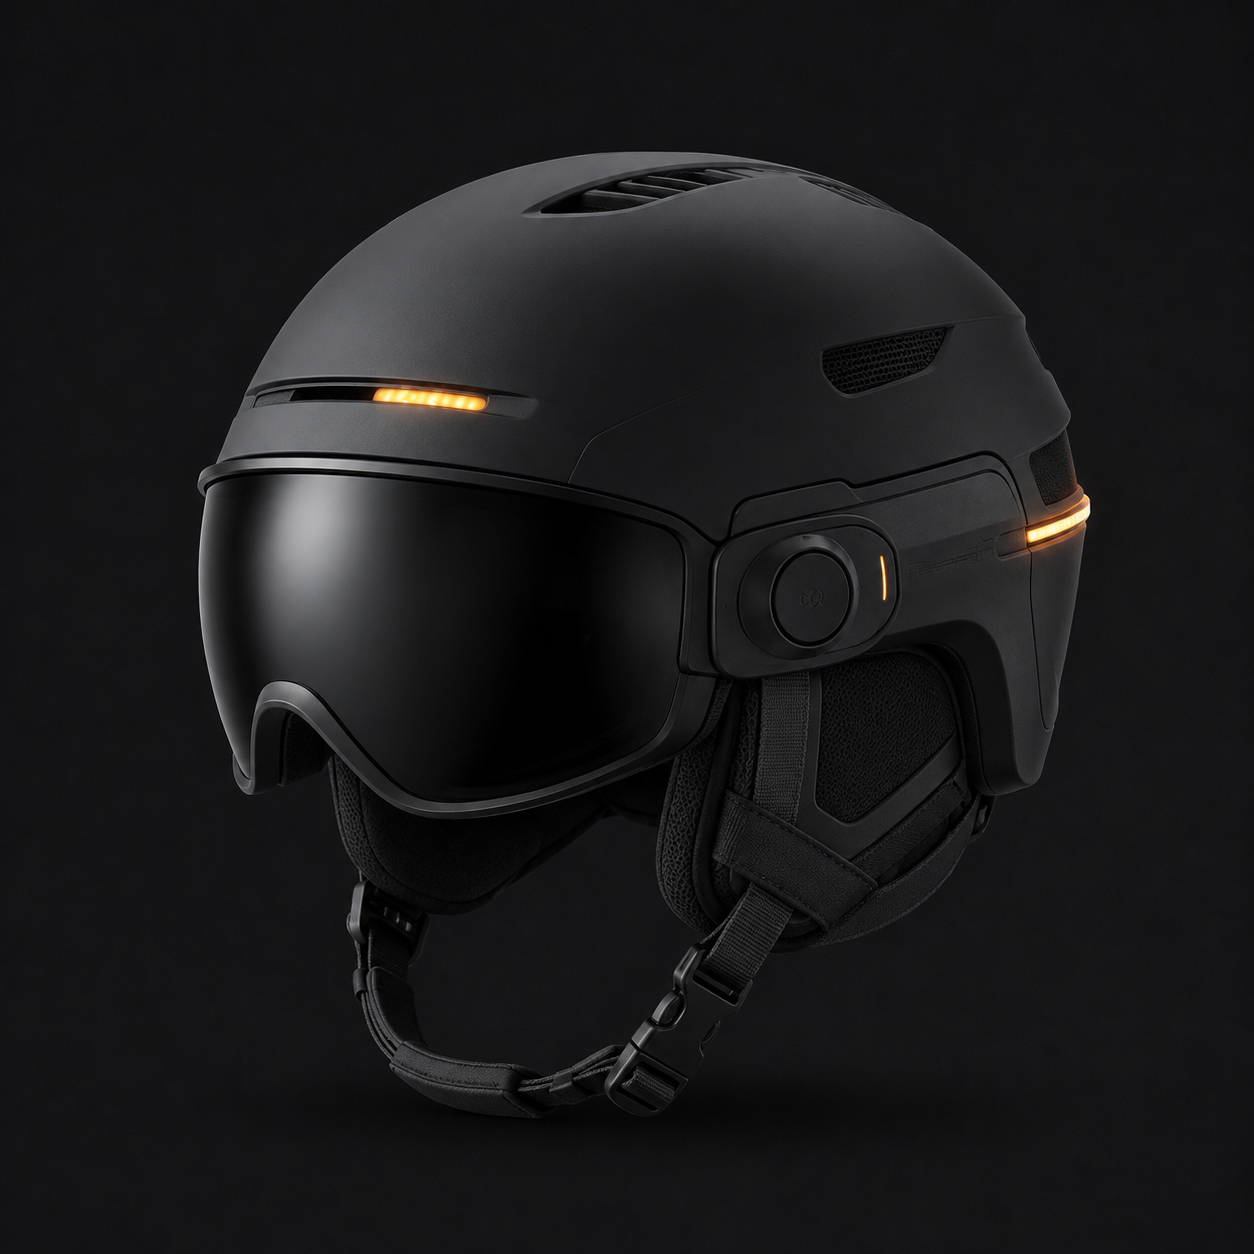
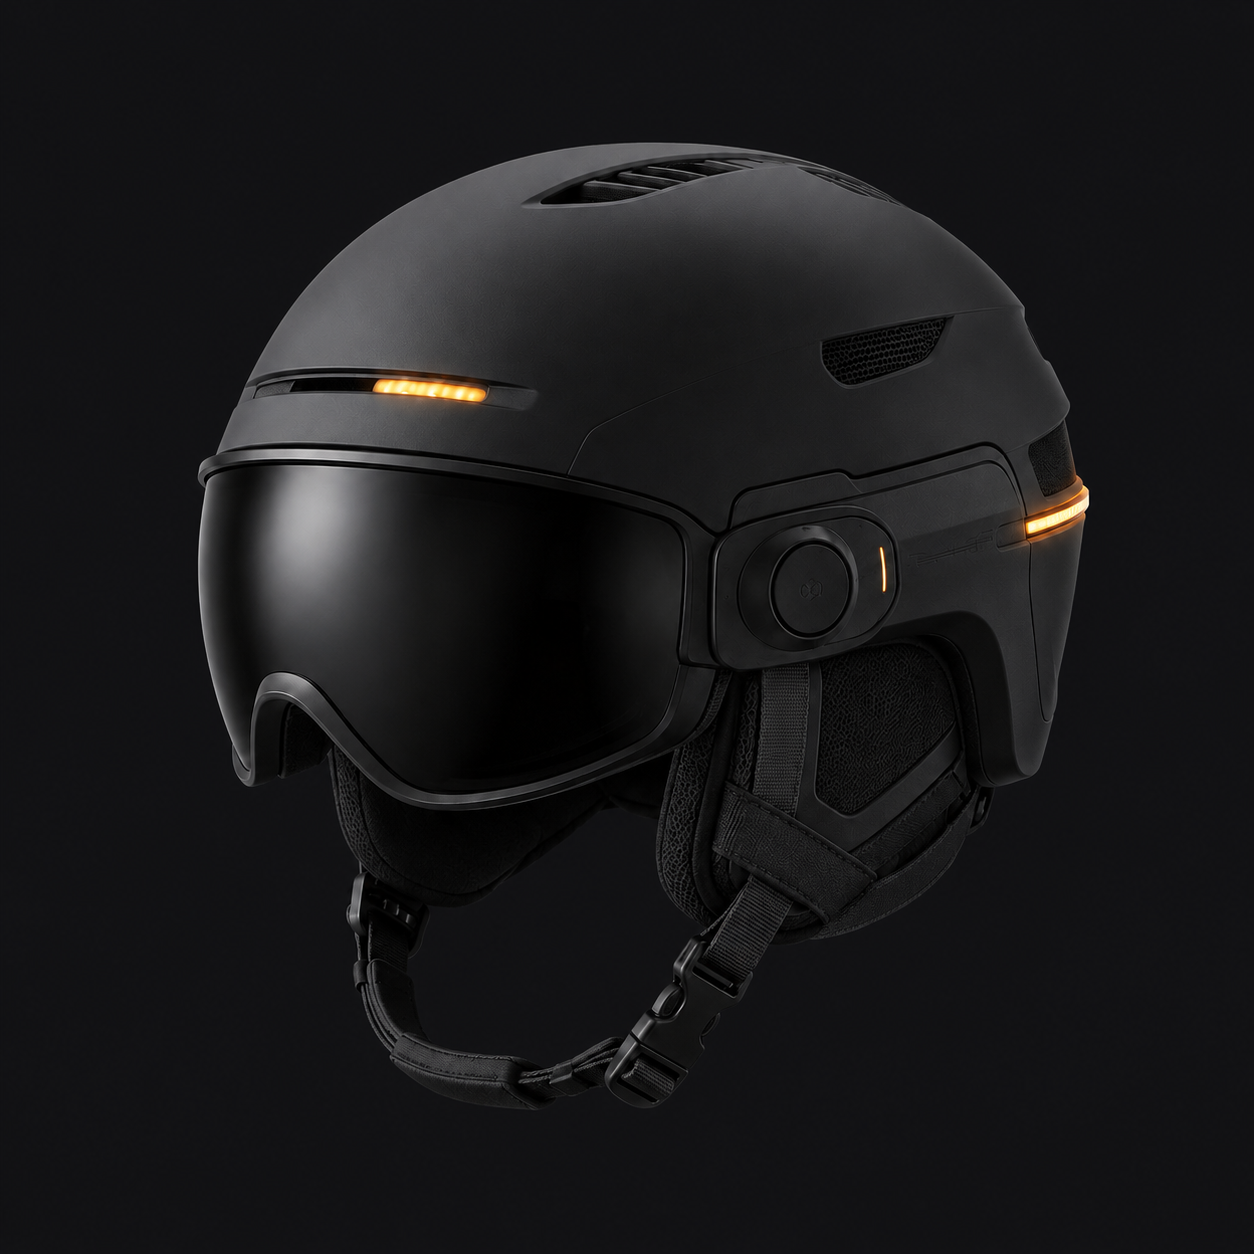
feat: 头盔图更换为平坦背景重生成版——精确抠图零色差,图片位放大至 128pt
生图侧按'纯平背景无渐晕无投影'重出图(边缘色标准差 0.6),抠图降为简单精确抠除:
纯 numpy 边界洪泛(本机 conda 的 PIL floodfill/cv2/scipy 编译扩展全部失配,均不可用,
详见提交内注释)+ 镜片内区自然保留 + 1.2px 羽化。数值验证:头盔外 alpha 恒 0,
模拟器像素扫描图片区与卡片底色完全一致。

diff --git a/app/src/app/(tabs)/index.tsx b/app/src/app/(tabs)/index.tsx
@@ -44,8 +44,8 @@ function BatteryBar({ level }: { level: number | null }) {
 /** 头盔演示图池：设备暂无型号字段（待硬件定稿），按 deviceId 稳定散列分配——
  *  同一设备永远同一张图，不同设备尽量错开。正式型号图到位后改为按型号映射。 */
 const HELMET_IMAGES = [
-  require('@/assets/images/helmet-urban-v3.webp'),
-  require('@/assets/images/helmet-ski-v3.webp'),
+  require('@/assets/images/helmet-urban-v5.webp'),
+  require('@/assets/images/helmet-ski-v5.webp'),
 ] as const;
 
 function helmetImageFor(deviceId: string) {
@@ -331,8 +331,8 @@ const styles = StyleSheet.create({
   },
   cardTop: { flexDirection: 'row', gap: 14 },
   helmetImage: {
-    width: 108,
-    height: 108,
+    width: 128,
+    height: 128,
     borderRadius: 14,
     alignSelf: 'center',
   },
